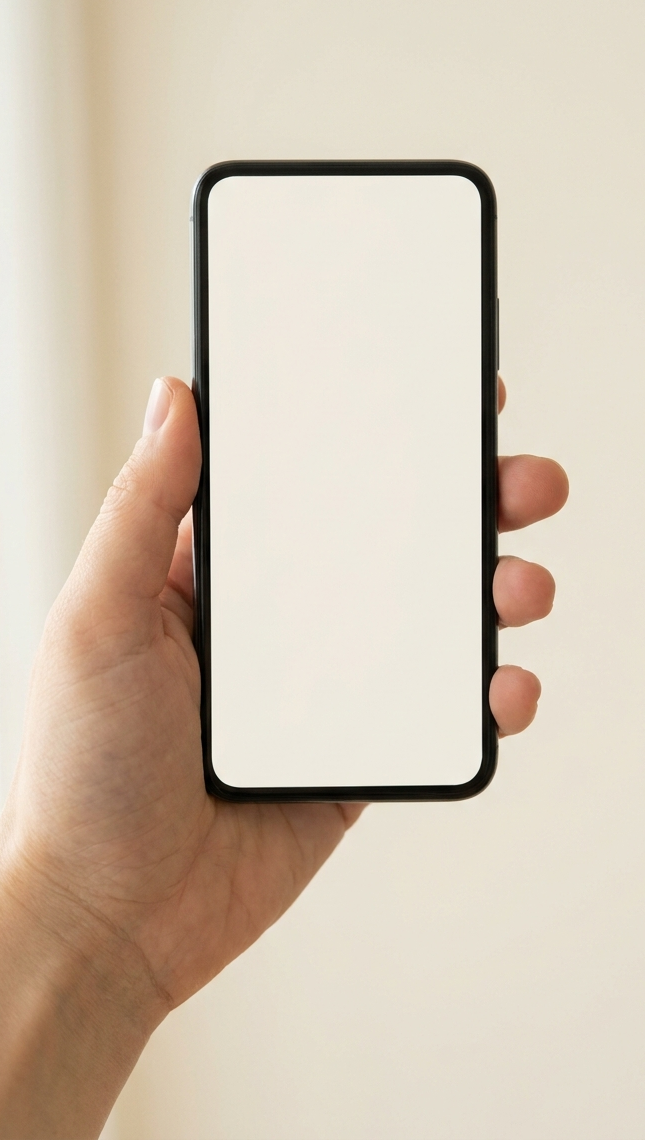
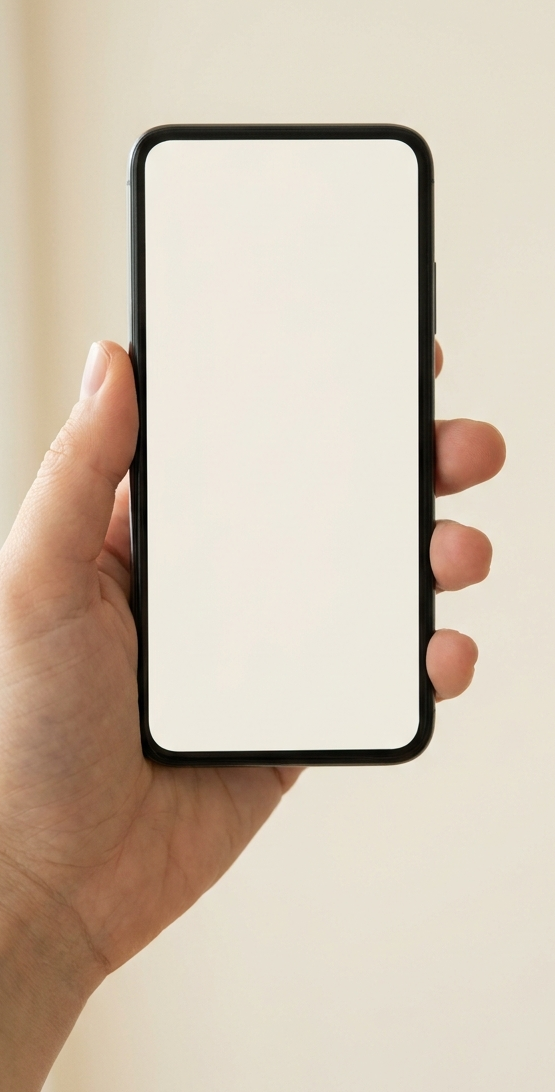
k

Changed region(s): [[0.0, 0.0, 0.9189, 1.0], [0.1838, 0.9652, 0.245, 1.0], [0.1838, 0.8095, 0.2144, 0.8407]]

diff --git a/app/components/HeroVisual.tsx b/app/components/HeroVisual.tsx
@@ -1,115 +1,184 @@
 "use client";
 
+import { type ReactNode } from "react";
 import { colors, serif, sans } from "../lib/tokens";
 
-/* Hero composite: the generated photo of a hand holding a phone, with the REAL
-   ONIS app screen layered crisply on top of the phone's screen area (CSS), so
-   the UI is always sharp and accurate. Driven by `progress` (0–1) from the
-   sticky scroll container: a +1 tap logs the count, then it crossfades to Coach. */
+/* Hero composite: the generated photo of a hand holding a phone, with the REAL,
+   full ONIS app screen composited crisply on top of the phone's screen area.
+   Driven by `progress` (0–1) from the sticky scroll container:
+   a +1 tap logs the energy-drinks count, then it crossfades to the Coach plan. */
 
-// Screen rectangle inside /images/hero-hand.png, measured as % of the image.
-const SCREEN = { left: "33.5%", top: "16.5%", width: "40.3%", height: "51.2%" };
+// Screen rectangle inside /images/hero-hand.png (measured as % of the image).
+const SCREEN = { left: "27.4%", top: "13.9%", width: "46.8%", height: "53.5%" };
+
+// Real per-habit colors from the app.
+const APP = {
+  energy: "#B98A34",
+  energySoft: "rgba(185,138,52,0.14)",
+  alcohol: "#7A4A38",
+  alcoholSoft: "rgba(122,74,56,0.14)",
+  olive: "#7E7F4E",
+  card: "#FFFFFF",
+  cardBorder: "rgba(26,26,23,0.07)",
+  cardShadow: "0 4cqw 11cqw -7cqw rgba(26,26,23,0.20)",
+} as const;
 
 const ss = (x: number, a: number, b: number) => {
   const t = Math.min(1, Math.max(0, (x - a) / (b - a)));
   return t * t * (3 - 2 * t);
 };
 
-const eyebrow = {
+const tiny = {
   fontFamily: sans,
-  fontSize: "4.6cqw",
-  letterSpacing: "0.2em",
+  fontSize: "3cqw",
+  letterSpacing: "0.16em",
   textTransform: "uppercase" as const,
   color: colors.dim,
   fontWeight: 600,
 };
 
-/* Onboarding-style "Today" screen — reads clearly at small size. */
-function TodayScreen({ tapP, btnScale }: { tapP: number; btnScale: number }) {
+function StatusBar() {
   return (
-    <div
-      style={{
-        position: "absolute",
-        inset: 0,
-        background: colors.canvas,
-        display: "flex",
-        flexDirection: "column",
-        alignItems: "center",
-        justifyContent: "center",
-        gap: "8cqw",
-        padding: "10cqw",
-      }}
-    >
-      <p style={{ ...eyebrow, textAlign: "center" }}>Energy drinks · Today</p>
-
-      <span
-        style={{
-          fontFamily: serif,
-          fontSize: "46cqw",
-          lineHeight: 1,
-          color: colors.ink,
-          height: "1em",
-          overflow: "hidden",
-          display: "inline-block",
-        }}
-      >
-        <span style={{ display: "block", transform: `translateY(${-tapP}em)` }}>
-          <span style={{ display: "block", height: "1em", lineHeight: 1 }}>0</span>
-          <span style={{ display: "block", height: "1em", lineHeight: 1 }}>1</span>
-        </span>
-      </span>
-
-      <span
-        style={{
-          width: "30cqw",
-          height: "30cqw",
-          borderRadius: "50%",
-          background: colors.accent,
-          color: "#fff",
-          display: "flex",
-          alignItems: "center",
-          justifyContent: "center",
-          fontFamily: sans,
-          fontWeight: 600,
-          fontSize: "9cqw",
-          transform: `scale(${btnScale})`,
-          boxShadow: `0 6cqw 14cqw -6cqw ${colors.accent}`,
-        }}
-      >
-        +1
+    <div style={{ display: "flex", justifyContent: "space-between", alignItems: "center", fontFamily: sans, fontSize: "3.1cqw", color: colors.ink, fontWeight: 600, marginBottom: "3.5cqw" }}>
+      <span>9:41</span>
+      <span style={{ display: "flex", gap: "1.3cqw", alignItems: "center" }}>
+        <span style={{ width: "3.8cqw", height: "2.2cqw", borderRadius: "0.6cqw", background: colors.ink }} />
+        <span style={{ width: "5.6cqw", height: "2.8cqw", borderRadius: "1cqw", border: `0.5cqw solid ${colors.ink}` }} />
       </span>
     </div>
   );
 }
 
-/* Coach screen — calm step-down plan (representative of the app's Coach tab). */
+function TabBar({ active }: { active: "today" | "coach" }) {
+  const item = (t: string, on: boolean) => (
+    <span key={t} style={{ fontFamily: sans, fontSize: "2.7cqw", color: on ? colors.accent : colors.dim, fontWeight: on ? 600 : 400 }}>
+      {t}
+    </span>
+  );
+  return (
+    <div style={{ display: "flex", justifyContent: "space-around", alignItems: "center", padding: "3.4cqw 0 4.6cqw", borderTop: `1px solid ${APP.cardBorder}` }}>
+      {item("Today", active === "today")}
+      {item("Stats", false)}
+      {item("Coach", active === "coach")}
+      {item("Profile", false)}
+    </div>
+  );
+}
+
+function Dots({ accent, fill }: { accent: string; fill: number }) {
+  return (
+    <div style={{ display: "flex", gap: "1.8cqw", marginTop: "2.2cqw" }}>
+      {[0, 1, 2, 3, 4, 5].map((i) => (
+        <span key={i} style={{ width: "2.8cqw", height: "2.8cqw", borderRadius: "50%", border: `0.6cqw solid rgba(26,26,23,0.12)` }} />
+      ))}
+      <span style={{ width: "2.8cqw", height: "2.8cqw", borderRadius: "50%", position: "relative", border: `0.6cqw solid rgba(26,26,23,0.12)` }}>
+        <span style={{ position: "absolute", inset: 0, borderRadius: "50%", background: accent, transform: `scale(${fill})` }} />
+      </span>
+    </div>
+  );
+}
+
+function Card({ icon, iconBg, title, period, count, target, below, accent, barFrac, btnScale, dotFill }: {
+  icon: ReactNode; iconBg: string; title: string; period: string; count: ReactNode; target: number;
+  below: ReactNode; accent: string; barFrac: number; btnScale: number; dotFill: number;
+}) {
+  return (
+    <div style={{ background: APP.card, border: `1px solid ${APP.cardBorder}`, borderRadius: "5.5cqw", boxShadow: APP.cardShadow, padding: "5cqw 5cqw 4.6cqw" }}>
+      <div style={{ display: "flex", alignItems: "center", justifyContent: "space-between" }}>
+        <div style={{ display: "flex", alignItems: "center", gap: "2.6cqw" }}>
+          <span style={{ width: "7.4cqw", height: "7.4cqw", borderRadius: "50%", background: iconBg, display: "flex", alignItems: "center", justifyContent: "center" }}>{icon}</span>
+          <span style={{ fontFamily: sans, fontSize: "3.5cqw", color: colors.ink, fontWeight: 500 }}>{title}</span>
+        </div>
+        <span style={tiny}>{period}</span>
+      </div>
+      <div style={{ display: "flex", alignItems: "center", justifyContent: "space-between", marginTop: "2.4cqw" }}>
+        <div style={{ flex: 1 }}>
+          <div style={{ display: "flex", alignItems: "baseline" }}>
+            <span style={{ fontFamily: serif, fontSize: "14cqw", lineHeight: 1, color: colors.ink }}>{count}</span>
+            <span style={{ fontFamily: sans, fontSize: "3.6cqw", color: colors.dim, marginLeft: "1.8cqw" }}>/ {target}</span>
+          </div>
+          <p style={{ ...tiny, marginTop: "2.6cqw" }}>{below} below</p>
+          <div style={{ height: "1cqw", borderRadius: "1cqw", background: "rgba(26,26,23,0.08)", marginTop: "2.4cqw", overflow: "hidden" }}>
+            <div style={{ height: "100%", width: `${barFrac * 100}%`, background: accent, borderRadius: "1cqw" }} />
+          </div>
+        </div>
+        <span style={{ width: "15cqw", height: "15cqw", borderRadius: "50%", background: accent, color: "#fff", display: "flex", alignItems: "center", justifyContent: "center", fontFamily: sans, fontWeight: 600, fontSize: "4.6cqw", marginLeft: "4.4cqw", flex: "none", transform: `scale(${btnScale})`, boxShadow: `0 3cqw 7cqw -3cqw ${accent}` }}>+1</span>
+      </div>
+      <p style={{ ...tiny, fontSize: "2.6cqw", marginTop: "4cqw" }}>Last 7 days</p>
+      <Dots accent={accent} fill={dotFill} />
+    </div>
+  );
+}
+
+function HomeScreen({ tapP, btnScale }: { tapP: number; btnScale: number }) {
+  const logged = tapP >= 0.5;
+  const countRoll = (
+    <span style={{ display: "inline-block", height: "1em", overflow: "hidden", lineHeight: 1, verticalAlign: "bottom" }}>
+      <span style={{ display: "block", transform: `translateY(${-tapP}em)` }}>
+        <span style={{ display: "block", height: "1em", lineHeight: 1 }}>0</span>
+        <span style={{ display: "block", height: "1em", lineHeight: 1 }}>1</span>
+      </span>
+    </span>
+  );
+  return (
+    <div style={{ position: "absolute", inset: 0, background: colors.canvas, padding: "6cqw 5.5cqw 0", display: "flex", flexDirection: "column" }}>
+      <StatusBar />
+      <div style={{ display: "flex", justifyContent: "space-between", alignItems: "flex-start", marginBottom: "4.5cqw" }}>
+        <div>
+          <p style={{ fontFamily: serif, fontStyle: "italic", fontSize: "3.3cqw", color: colors.dim }}>Good morning</p>
+          <p style={{ fontFamily: serif, fontSize: "7.6cqw", color: colors.ink, lineHeight: 1.05, margin: "0.4cqw 0" }}>Wednesday</p>
+          <p style={{ ...tiny, fontSize: "2.7cqw" }}>
+            <span style={{ color: APP.olive }}>•</span> All on target
+          </p>
+        </div>
+        <span style={{ width: "8cqw", height: "8cqw", borderRadius: "50%", border: `1px solid ${APP.cardBorder}`, display: "flex", alignItems: "center", justifyContent: "center", color: colors.ink, fontSize: "4.6cqw", fontWeight: 300 }}>+</span>
+      </div>
+      <div style={{ display: "flex", flexDirection: "column", gap: "3.6cqw" }}>
+        <Card icon={<Bolt c={APP.energy} />} iconBg={APP.energySoft} title="Energy drinks" period="Today" count={countRoll} target={2} below={logged ? 1 : 2} accent={APP.energy} barFrac={tapP * 0.5} btnScale={btnScale} dotFill={ss(tapP, 0.45, 1)} />
+        <Card icon={<Wine c={APP.alcohol} />} iconBg={APP.alcoholSoft} title="Alcohol" period="This week" count={0} target={7} below={7} accent={APP.alcohol} barFrac={0} btnScale={1} dotFill={0} />
+      </div>
+      <div style={{ flex: 1 }} />
+      <TabBar active="today" />
+    </div>
+  );
+}
+
 function CoachScreen() {
   return (
-    <div
-      style={{
-        position: "absolute",
-        inset: 0,
-        background: colors.canvas,
-        display: "flex",
-        flexDirection: "column",
-        alignItems: "center",
-        justifyContent: "center",
-        gap: "6cqw",
-        padding: "12cqw",
-      }}
-    >
-      <p style={{ ...eyebrow, textAlign: "center" }}>Coach · This week</p>
-      <p style={{ fontFamily: serif, fontSize: "13cqw", color: colors.ink, lineHeight: 1 }}>
-        On pace
-        <span style={{ color: colors.accent }}>.</span>
-      </p>
-      <svg viewBox="0 0 120 60" style={{ width: "62cqw", height: "auto", display: "block", overflow: "visible" }}>
-        <line x1="6" y1="54" x2="114" y2="54" stroke="rgba(26,26,23,0.12)" strokeWidth="1" />
-        <path d="M8 14 H34 V24 H60 V34 H86 V44 H112" fill="none" stroke={colors.accent} strokeWidth="3" strokeLinecap="round" strokeLinejoin="round" />
-        <circle cx="112" cy="44" r="3.4" fill={colors.accent} />
-      </svg>
-      <p style={{ fontFamily: sans, fontWeight: 300, fontSize: "4.4cqw", color: colors.dim }}>easing down, gently</p>
+    <div style={{ position: "absolute", inset: 0, background: colors.canvas, padding: "6cqw 5.5cqw 0", display: "flex", flexDirection: "column" }}>
+      <StatusBar />
+      <p style={tiny}>Coach</p>
+      <p style={{ fontFamily: serif, fontSize: "7.6cqw", color: colors.ink, lineHeight: 1.05, margin: "0.6cqw 0 0.4cqw" }}>Week 3 of 8</p>
+      <p style={{ fontFamily: sans, fontSize: "3.4cqw", color: colors.accent, fontWeight: 500, marginBottom: "5cqw" }}>on pace</p>
+      <div style={{ background: APP.card, border: `1px solid ${APP.cardBorder}`, borderRadius: "5.5cqw", boxShadow: APP.cardShadow, padding: "5.5cqw" }}>
+        <p style={{ ...tiny, marginBottom: "3.5cqw" }}>Your plan · energy drinks</p>
+        <svg viewBox="0 0 150 84" style={{ width: "100%", height: "auto", display: "block", overflow: "visible" }}>
+          <line x1="6" y1="78" x2="144" y2="78" stroke="rgba(26,26,23,0.10)" strokeWidth="1" />
+          <path d="M8 18 H40 V32 H72 V46 H104 V60 H140" fill="none" stroke={colors.accent} strokeWidth="3.4" strokeLinecap="round" strokeLinejoin="round" />
+          <circle cx="140" cy="60" r="4" fill={colors.accent} />
+        </svg>
+        <p style={{ fontFamily: sans, fontWeight: 300, fontSize: "3cqw", color: colors.dim, marginTop: "3.5cqw" }}>easing down, gently</p>
+      </div>
+      <div style={{ flex: 1 }} />
+      <TabBar active="coach" />
     </div>
+  );
+}
+
+function Bolt({ c }: { c: string }) {
+  return (
+    <svg viewBox="0 0 24 24" width="4cqw" height="4cqw" fill={c} aria-hidden>
+      <path d="M13 2 L4 14 H10.5 L9 22 L20 9 H13.5 Z" />
+    </svg>
+  );
+}
+function Wine({ c }: { c: string }) {
+  return (
+    <svg viewBox="0 0 24 24" width="4cqw" height="4cqw" fill="none" stroke={c} strokeWidth={1.6} strokeLinecap="round" strokeLinejoin="round" aria-hidden>
+      <path d="M7.5 3 H16.5 C16.5 9 14 11 12 11 C10 11 7.5 9 7.5 3 Z" fill={c} stroke="none" />
+      <line x1="12" y1="11" x2="12" y2="19" />
+      <line x1="8.5" y1="19.5" x2="15.5" y2="19.5" />
+    </svg>
   );
 }
 
@@ -126,7 +195,7 @@ export default function HeroComposite({ progress, reduce }: { progress: number; 
       <img className="hero-hand-img" src="/images/hero-hand.png" alt="A hand holding a phone running ONIS" />
       <div className="hero-screen" style={{ left: SCREEN.left, top: SCREEN.top, width: SCREEN.width, height: SCREEN.height }}>
         <div style={{ position: "absolute", inset: 0, opacity: todayOpacity }}>
-          <TodayScreen tapP={tapP} btnScale={btnScale} />
+          <HomeScreen tapP={tapP} btnScale={btnScale} />
         </div>
         <div style={{ position: "absolute", inset: 0, opacity: coachOpacity }}>
           <CoachScreen />

diff --git a/app/globals.css b/app/globals.css
@@ -108,13 +108,13 @@ a {
   overflow: hidden;
   display: flex;
   align-items: center;
-  padding: clamp(40px, 6vh, 88px) clamp(24px, 6vw, 80px);
+  padding: clamp(28px, 4.5vh, 64px) clamp(24px, 6vw, 80px);
 }
 
 /* Photo of the hand + phone, with the real app screen composited on top. */
 .hero-composite {
   position: relative;
-  width: clamp(210px, 58vw, 384px);
+  width: clamp(200px, 54vw, 400px);
   line-height: 0;
 }
 .hero-hand-img {